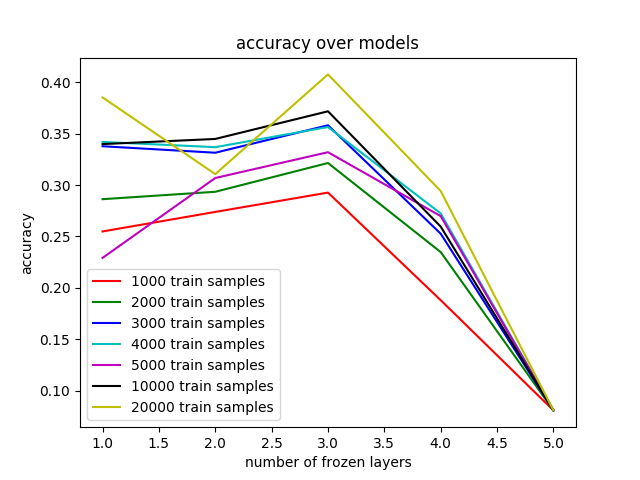
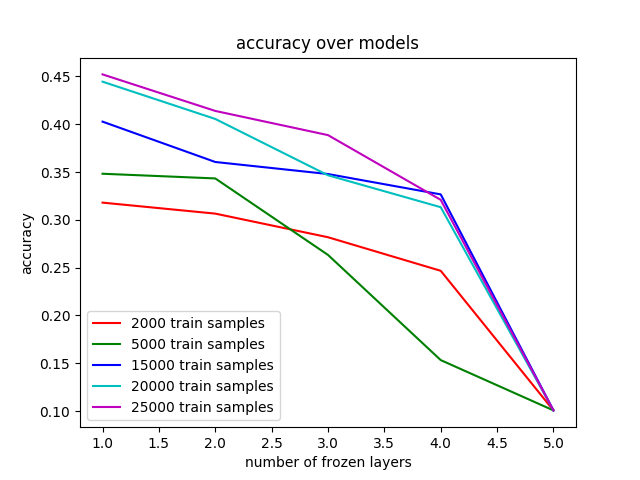
Add accuracy and loss graphs

diff --git a/transfer/dummy.py b/transfer/dummy.py
@@ -112,7 +112,7 @@ def base_model_smoothness():
 
 def make_accuracy_and_loss_graph_for_models():
     x = [k for k in range(1, 5 + 1)]
-    trains = [1000, 2000, 3000, 4000, 5000, 10000, 20000]
+    trains = [2000, 5000, 15000, 20000, 25000]
     colors = ['r', 'g', 'b', 'c', 'm', 'k', 'y']
     accuracies = []
     losses = []
@@ -120,7 +120,7 @@ def make_accuracy_and_loss_graph_for_models():
         accuracy = []
         loss = []
         for i in range(5):
-            with open(fr'scores_of_model_{i}_and_{j}_train_data.txt', 'r') as f:
+            with open(fr'scores_of_model_{i}_and_{j}_train_data_new_reshape_and_base_better.txt', 'r') as f:
                 lines = f.readlines()
                 scores = lines[1].replace('[', '').replace(']', '').split(',')
                 scores = [float(s) for s in scores]
@@ -153,5 +153,5 @@ def make_accuracy_and_loss_graph_for_models():
 
 if __name__ == '__main__':
     # base_model_smoothness()
-    main()
-    # make_accuracy_and_loss_graph_for_models()
+    # main()
+    make_accuracy_and_loss_graph_for_models()
